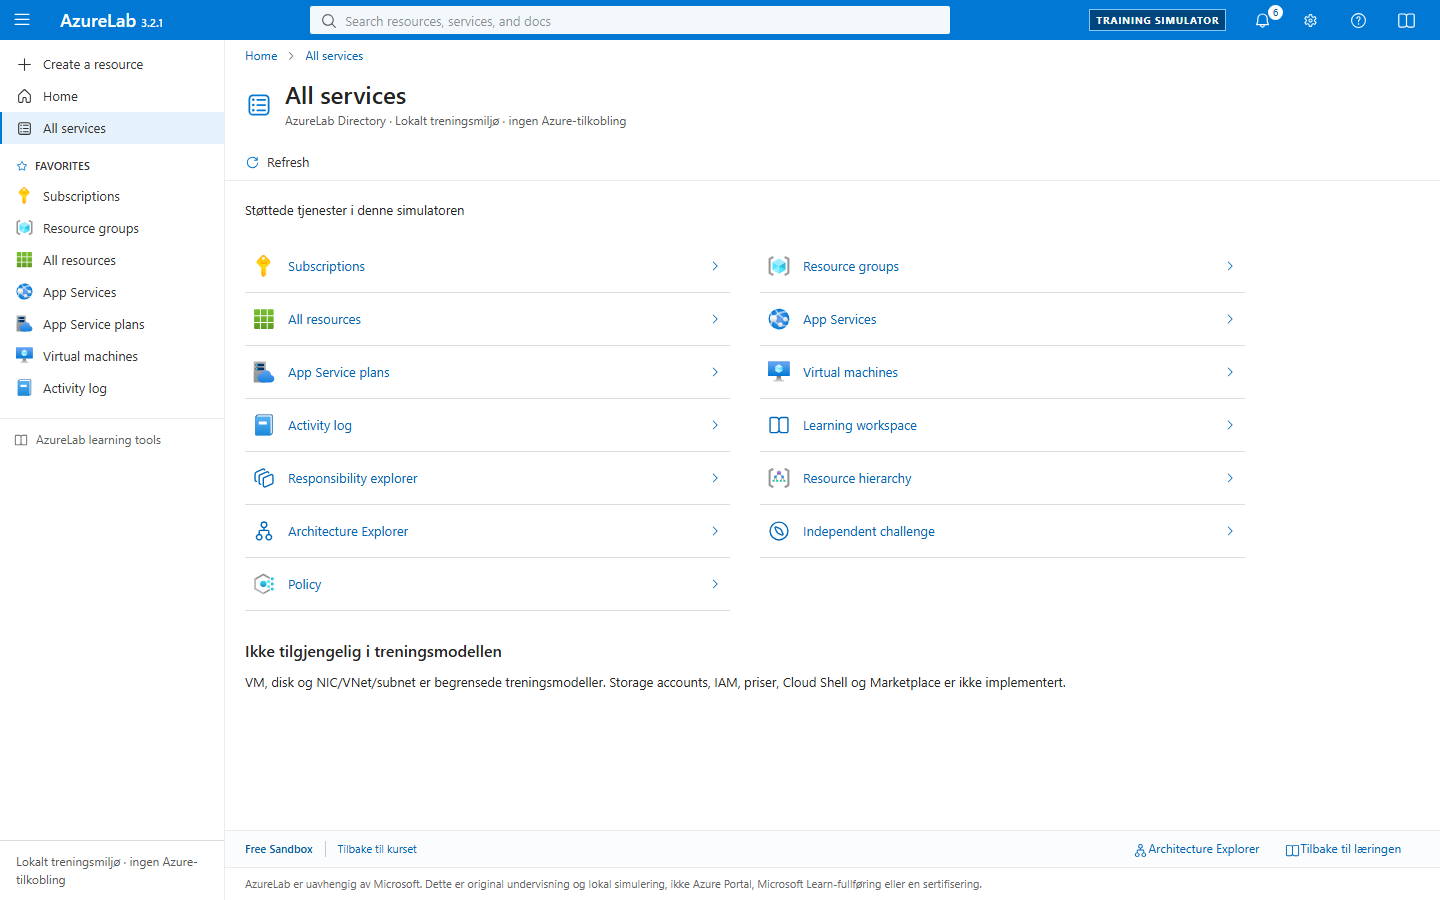
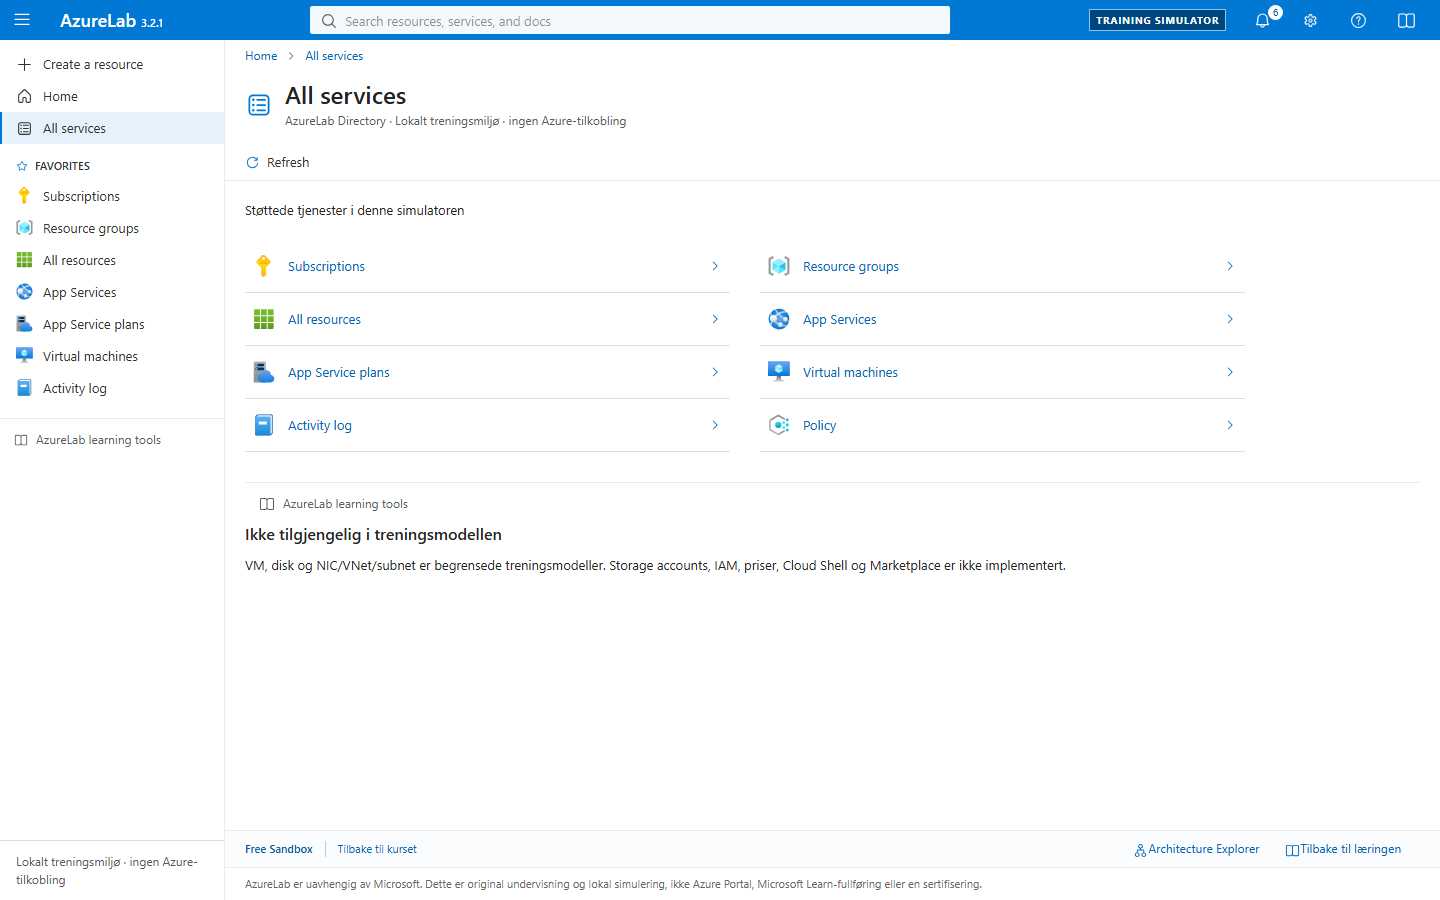
Separate Azure service catalogue from training utilities after preview review

Changed region(s): [[0.1562, 0.5289, 0.75, 0.6533], [0.1562, 0.7156, 0.75, 0.7778], [0.5312, 0.4667, 0.625, 0.4978]]

diff --git a/src/features/portal/portal.tsx b/src/features/portal/portal.tsx
@@ -856,7 +856,7 @@ function PortalWorkspace() {
                 <>
                   <p>{p.serviceHint}</p>
                   <div className="portal-services-index">
-                    {[...services, ...educational, 'policy' as const].map((area) => {
+                    {[...services, 'policy' as const].map((area) => {
                       return (
                         <button key={area} type="button" onClick={() => navigate(area)}>
                           <ServiceIcon kind={area} size={22} />
@@ -866,6 +866,21 @@ function PortalWorkspace() {
                       );
                     })}
                   </div>
+                  <details className="portal-learning-tools">
+                    <summary>
+                      <ServiceIcon kind="learn" />
+                      {nb.portalUi.learningTools}
+                    </summary>
+                    <div className="portal-services-index">
+                      {educational.map((area) => (
+                        <button key={area} type="button" onClick={() => navigate(area)}>
+                          <ServiceIcon kind={area} size={22} />
+                          <span>{p.areas[area]}</span>
+                          <ServiceIcon kind="next" size={14} />
+                        </button>
+                      ))}
+                    </div>
+                  </details>
                   <h2>{p.unavailable}</h2>
                   <p>{p.unavailableServices}</p>
                 </>

diff --git a/tests/e2e/portal-fidelity.spec.ts b/tests/e2e/portal-fidelity.spec.ts
@@ -136,6 +136,12 @@ for (const [width, height] of [
     await audit(page);
     await page.screenshot({ path: info.outputPath(`fidelity-${width}-home.png`), scale: 'css' });
     await area(page, 'services');
+    await expect(page.locator('.portal-services-index').first()).not.toContainText(
+      p.areas.architecture,
+    );
+    await expect(page.locator('.portal-view > .portal-learning-tools > summary')).toHaveText(
+      ui.learningTools,
+    );
     await expect(page.locator('.portal-services-index [data-icon="vms"]')).toHaveAttribute(
       'src',
       /10021-icon-service-Virtual-Machine.svg$/,

diff --git a/docs/PORTAL_ICONOGRAPHY.md b/docs/PORTAL_ICONOGRAPHY.md
@@ -119,3 +119,11 @@ Only AzureLab output with synthetic fixtures is versioned:
 | App Service   | —                                                              | [Plan create](screenshots/exact-portal-plan-create-1440.png), [plan Overview](screenshots/exact-portal-plan-overview-1440.png), [app create](screenshots/exact-portal-app-create-1440.png), [app Overview](screenshots/exact-portal-app-overview-1440.png), [settings](screenshots/exact-portal-settings-draft-1440.png) |
 
 Reproduce from the normal preview root: course → Free sandbox → search Resource groups with keyboard → create/review/inspect → Virtual machines/create/Disks/Networking/Overview → App Service plans/Web App → Environment variables/name edit/inner Apply/page Apply → local notification/receipt. Alternatively launch the existing Service Types PaaS lab, minimize/recall SavvyShark, investigate the real policy denial, correct, create the dependent app, inspect Architecture and return to the exact debrief. Independent work retains its separate requirements/evidence and no solution highlights. No hidden route is required. Playwright records videos/traces; the local synthetic1440 review trace is retained as an ignored artifact.
+
+### Deployed review and catalogue correction
+
+Draft PR18 targets PR17. Stable branch alias: [ordinary root](https://azure-learner-git-codex-azure-portal-exa-81c175-espzys-projects.vercel.app/). The actual in-app browser entered this root → current course → visible Free sandbox; build information reported branch `codex/azure-portal-exact-icons` and full initial implementation SHA `aeda67dd9955caeb06ac77e578d9a0e235e2d1b8`. No Vercel authentication blocker was encountered in the existing authorized session, and protection was not changed. Actual actions: keyboard global search, local RG, real denied plan/revision1→1/no created resource, correction to allowed region, dependent Web App, setting-name editor/inner draft/no new receipt, page Apply/new receipt, reload preserving staging/hosting, VM dry review/create/Overview/disk relationships, live Architecture and course return with unchanged0/11 and0/5 observations. Synthetic live captures are retained in ignored artifacts. This is agent browser verification, not human UX/SME approval.
+
+That review exposed one remaining catalogue separation defect: All services interleaved teaching tools with actual Azure services. The follow-up keeps only supported Azure services/Policy in the primary catalogue and moves AzureLab tools into a named native disclosure. Their original routes/help classification remain unchanged; no learning evidence is emitted by listing/opening the disclosure. Added browser assertions verify the primary catalogue contains no Architecture teaching entry and that the disclosure is identifiable. Current catalogue capture above shows the correction. Full `npm run check` passes again and focused production tests pass10/10 (54.8s). The initial complete remote [Quality run](https://github.com/EspzY/Azure-learner/actions/runs/40346438127) passed clean `npm ci`, all checks and53 E2E/17 inherited skips. Final current-head CI/deployed SHA acceptance is recorded on PR18; the stable alias is checked again after this follow-up deploys.
+
+Catalogue fidelity is PARTIAL: the service identities are registered originals, but the bounded eight-entry list/native disclosure is not Azure's full categorized All services browser. This is an explicit scope difference, not MATCH or fabricated service availability.

diff --git a/docs/PROJECT_STATUS.md b/docs/PROJECT_STATUS.md
@@ -2,6 +2,8 @@
 
 ## Exact-reference Portal correction — implemented and locally verified
 
+Actual stable-preview root/branch/full SHA, keyboard search, RG/denial/correction/app/settings/VM/reload/live Architecture/course return were inspected. Initial remote Quality run40346438127 passed clean install, checks and53/17 E2E. Preview review then exposed All services mixing Azure and teaching entries; a focused follow-up separates the catalogue from a native AzureLab-tools disclosure, with added assertions and10/10 production cases (54.8s). No domain/store change. Final current-head acceptance is recorded on the stacked PR18 and delivery; [details and limitations](PORTAL_ICONOGRAPHY.md#deployed-review-and-catalogue-correction).
+
 Isolated branch `codex/azure-portal-exact-icons`, base PR17 `3d78479deb97f6dbf966d1a7974adf165c329fb9`. Central original Azure/Fluent registry, local source/license manifests and hash checks replace generic service metaphors. Reference-backed header, resource pane/command layout, RG list/create, Essentials, settings edit/reveal and training separation are implemented in the ordinary course/lab Portal. No hidden review route or simulator/evidence/store changes. [Audit, icon/component matrix and limitations](PORTAL_ICONOGRAPHY.md).
 
 Final `npm run check` passed:149 Vitest +3 docs fixtures,61 curriculum subset,59 Markdown files/links, assets/legacy/typecheck/lint/format/build. Full production Playwright:53 pass,17 inherited project-duplicate skips,0 fail (4.4m); final Portal screenshot/interactions across both projects:10/10 pass (55.2s). No skip added or technical assertion weakened. Two location/return selectors were updated to their intentional reference-driven UI and extended with metadata semantics.56 actual captures/four required desktop sizes and reference/baseline pairs were inspected; synthetic before/after gallery is linked from the [matrix](PORTAL_ICONOGRAPHY.md). Audits:0 vulnerabilities. Domain/providers/stores/XP/evidence/package/lockfile/CI remain unchanged. Remote CI/clean install, stable preview root and exact deployed SHA are recorded with the new stacked Draft PR at delivery; no merge or production deployment. Human Azure-SME/UX/learning and legal counsel review remain unperformed; PARTIAL/UNVERIFIED variants are explicit.
